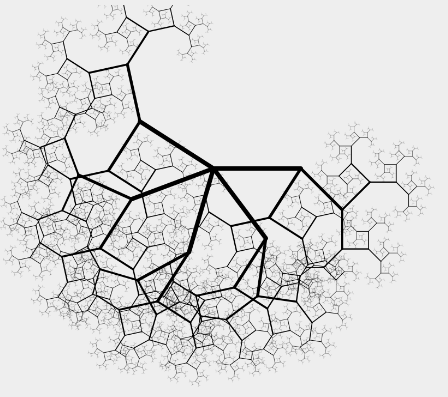
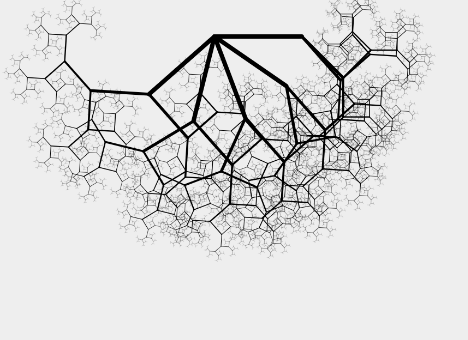
Fractal tweaks

Changed region(s): [[0.0, 0.0, 0.9688, 0.9706]]

diff --git a/art/live/fractal1.md b/art/live/fractal1.md
@@ -1,7 +1,7 @@
 ---
 layout: liveart.multi.script.njk
 title: A Fractal - 2023 September 22
-script: ['/js/art/share/canvas.js', '/js/art/share/random.js', '/js/art/share/ground.js', '/js/art/share/horizon.js', '/js/art/share/draw_kit.js', '/js/art/latest.js']
+script: ['/js/art/share/canvas.js', '/js/art/share/random.js', '/js/art/share/draw_kit.js', '/js/art/fractal1.js']
 ---
 
 
